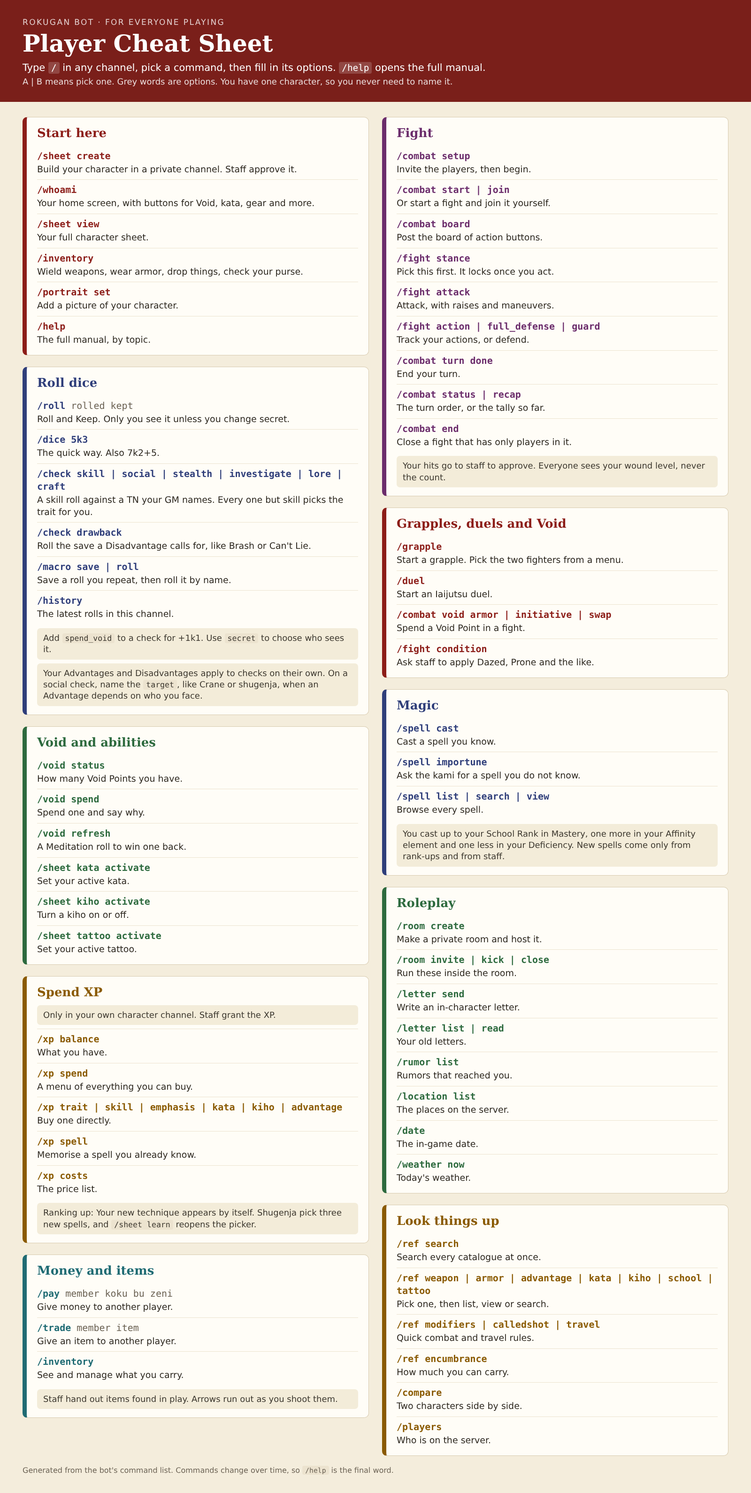
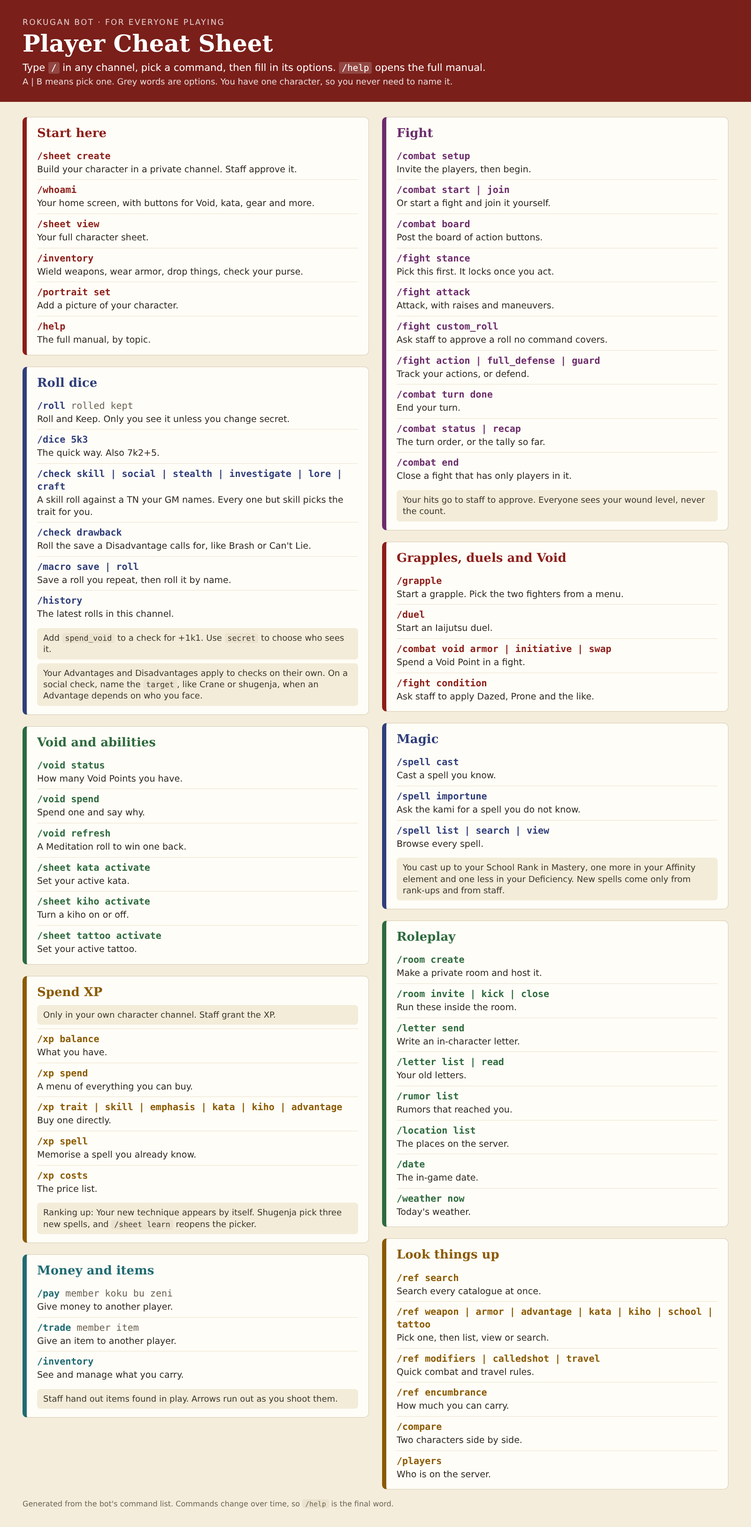
Add /fight custom_roll: a DM-approved roll for abilities no command covers
A player asks for XkY with an optional bonus, TN, emphasis and unskilled flag and
a reason. A card goes to the damage or approval channel; a DM can approve and roll,
edit the dice and roll, or deny. The result is posted in the room the request came
from and logged. It does not use an action or change wounds. The card survives
restarts.

Claude-Session: https://claude.ai/code/session_01KS9eZFiisvRgjoufBXVsmu

diff --git a/discord_bot/cheatsheets/player.html b/discord_bot/cheatsheets/player.html
@@ -33,7 +33,7 @@ footer { padding:0 48px 30px; color:var(--muted); font-size:16px; }
 <header><div class="kicker">Rokugan Bot · For everyone playing</div>
 <h1>Player Cheat Sheet</h1>
 <p>Type <code>/</code> in any channel, pick a command, then fill in its options. <code>/help</code> opens the full manual.</p><p class="legend">A | B means pick one. Grey words are options. You have one character, so you never need to name it.</p></header>
-<main><section class="card" style="--accent:#8c1d18"><h2>Start here</h2><div class="row"><div class="cmd">/sheet create</div><div class="desc">Build your character in a private channel. Staff approve it.</div></div><div class="row"><div class="cmd">/whoami</div><div class="desc">Your home screen, with buttons for Void, kata, gear and more.</div></div><div class="row"><div class="cmd">/sheet view</div><div class="desc">Your full character sheet.</div></div><div class="row"><div class="cmd">/inventory</div><div class="desc">Wield weapons, wear armor, drop things, check your purse.</div></div><div class="row"><div class="cmd">/portrait set</div><div class="desc">Add a picture of your character.</div></div><div class="row"><div class="cmd">/help</div><div class="desc">The full manual, by topic.</div></div></section><section class="card" style="--accent:#2f3e7a"><h2>Roll dice</h2><div class="row"><div class="cmd">/roll <span class="opt">rolled kept</span></div><div class="desc">Roll and Keep. Only you see it unless you change secret.</div></div><div class="row"><div class="cmd">/dice 5k3</div><div class="desc">The quick way. Also 7k2+5.</div></div><div class="row"><div class="cmd">/check skill | social | stealth | investigate | lore | craft</div><div class="desc">A skill roll against a TN your GM names. Every one but skill picks the trait for you.</div></div><div class="row"><div class="cmd">/check drawback</div><div class="desc">Roll the save a Disadvantage calls for, like Brash or Can&#x27;t Lie.</div></div><div class="row"><div class="cmd">/macro save | roll</div><div class="desc">Save a roll you repeat, then roll it by name.</div></div><div class="row"><div class="cmd">/history</div><div class="desc">The latest rolls in this channel.</div></div><div class="note">Add <code>spend_void</code> to a check for +1k1. Use <code>secret</code> to choose who sees it.</div><div class="note">Your Advantages and Disadvantages apply to checks on their own. On a social check, name the <code>target</code>, like Crane or shugenja, when an Advantage depends on who you face.</div></section><section class="card" style="--accent:#2d6a3e"><h2>Void and abilities</h2><div class="row"><div class="cmd">/void status</div><div class="desc">How many Void Points you have.</div></div><div class="row"><div class="cmd">/void spend</div><div class="desc">Spend one and say why.</div></div><div class="row"><div class="cmd">/void refresh</div><div class="desc">A Meditation roll to win one back.</div></div><div class="row"><div class="cmd">/sheet kata activate</div><div class="desc">Set your active kata.</div></div><div class="row"><div class="cmd">/sheet kiho activate</div><div class="desc">Turn a kiho on or off.</div></div><div class="row"><div class="cmd">/sheet tattoo activate</div><div class="desc">Set your active tattoo.</div></div></section><section class="card" style="--accent:#8a5a00"><h2>Spend XP</h2><div class="note">Only in your own character channel. Staff grant the XP.</div><div class="row"><div class="cmd">/xp balance</div><div class="desc">What you have.</div></div><div class="row"><div class="cmd">/xp spend</div><div class="desc">A menu of everything you can buy.</div></div><div class="row"><div class="cmd">/xp trait | skill | emphasis | kata | kiho | advantage</div><div class="desc">Buy one directly.</div></div><div class="row"><div class="cmd">/xp spell</div><div class="desc">Memorise a spell you already know.</div></div><div class="row"><div class="cmd">/xp costs</div><div class="desc">The price list.</div></div><div class="note">Ranking up: Your new technique appears by itself. Shugenja pick three new spells, and <code>/sheet learn</code> reopens the picker.</div></section><section class="card" style="--accent:#1f6b73"><h2>Money and items</h2><div class="row"><div class="cmd">/pay <span class="opt">member koku bu zeni</span></div><div class="desc">Give money to another player.</div></div><div class="row"><div class="cmd">/trade <span class="opt">member item</span></div><div class="desc">Give an item to another player.</div></div><div class="row"><div class="cmd">/inventory</div><div class="desc">See and manage what you carry.</div></div><div class="note">Staff hand out items found in play. Arrows run out as you shoot them.</div></section><section class="card" style="--accent:#6b2c6b"><h2>Fight</h2><div class="row"><div class="cmd">/combat setup</div><div class="desc">Invite the players, then begin.</div></div><div class="row"><div class="cmd">/combat start | join</div><div class="desc">Or start a fight and join it yourself.</div></div><div class="row"><div class="cmd">/combat board</div><div class="desc">Post the board of action buttons.</div></div><div class="row"><div class="cmd">/fight stance</div><div class="desc">Pick this first. It locks once you act.</div></div><div class="row"><div class="cmd">/fight attack</div><div class="desc">Attack, with raises and maneuvers.</div></div><div class="row"><div class="cmd">/fight action | full_defense | guard</div><div class="desc">Track your actions, or defend.</div></div><div class="row"><div class="cmd">/combat turn done</div><div class="desc">End your turn.</div></div><div class="row"><div class="cmd">/combat status | recap</div><div class="desc">The turn order, or the tally so far.</div></div><div class="row"><div class="cmd">/combat end</div><div class="desc">Close a fight that has only players in it.</div></div><div class="note">Your hits go to staff to approve. Everyone sees your wound level, never the count.</div></section><section class="card" style="--accent:#8c1d18"><h2>Grapples, duels and Void</h2><div class="row"><div class="cmd">/grapple</div><div class="desc">Start a grapple. Pick the two fighters from a menu.</div></div><div class="row"><div class="cmd">/duel</div><div class="desc">Start an Iaijutsu duel.</div></div><div class="row"><div class="cmd">/combat void armor | initiative | swap</div><div class="desc">Spend a Void Point in a fight.</div></div><div class="row"><div class="cmd">/fight condition</div><div class="desc">Ask staff to apply Dazed, Prone and the like.</div></div></section><section class="card" style="--accent:#2f3e7a"><h2>Magic</h2><div class="row"><div class="cmd">/spell cast</div><div class="desc">Cast a spell you know.</div></div><div class="row"><div class="cmd">/spell importune</div><div class="desc">Ask the kami for a spell you do not know.</div></div><div class="row"><div class="cmd">/spell list | search | view</div><div class="desc">Browse every spell.</div></div><div class="note">You cast up to your School Rank in Mastery, one more in your Affinity element and one less in your Deficiency. New spells come only from rank-ups and from staff.</div></section><section class="card" style="--accent:#2d6a3e"><h2>Roleplay</h2><div class="row"><div class="cmd">/room create</div><div class="desc">Make a private room and host it.</div></div><div class="row"><div class="cmd">/room invite | kick | close</div><div class="desc">Run these inside the room.</div></div><div class="row"><div class="cmd">/letter send</div><div class="desc">Write an in-character letter.</div></div><div class="row"><div class="cmd">/letter list | read</div><div class="desc">Your old letters.</div></div><div class="row"><div class="cmd">/rumor list</div><div class="desc">Rumors that reached you.</div></div><div class="row"><div class="cmd">/location list</div><div class="desc">The places on the server.</div></div><div class="row"><div class="cmd">/date</div><div class="desc">The in-game date.</div></div><div class="row"><div class="cmd">/weather now</div><div class="desc">Today&#x27;s weather.</div></div></section><section class="card" style="--accent:#8a5a00"><h2>Look things up</h2><div class="row"><div class="cmd">/ref search</div><div class="desc">Search every catalogue at once.</div></div><div class="row"><div class="cmd">/ref weapon | armor | advantage | kata | kiho | school | tattoo</div><div class="desc">Pick one, then list, view or search.</div></div><div class="row"><div class="cmd">/ref modifiers | calledshot | travel</div><div class="desc">Quick combat and travel rules.</div></div><div class="row"><div class="cmd">/ref encumbrance</div><div class="desc">How much you can carry.</div></div><div class="row"><div class="cmd">/compare</div><div class="desc">Two characters side by side.</div></div><div class="row"><div class="cmd">/players</div><div class="desc">Who is on the server.</div></div></section></main>
+<main><section class="card" style="--accent:#8c1d18"><h2>Start here</h2><div class="row"><div class="cmd">/sheet create</div><div class="desc">Build your character in a private channel. Staff approve it.</div></div><div class="row"><div class="cmd">/whoami</div><div class="desc">Your home screen, with buttons for Void, kata, gear and more.</div></div><div class="row"><div class="cmd">/sheet view</div><div class="desc">Your full character sheet.</div></div><div class="row"><div class="cmd">/inventory</div><div class="desc">Wield weapons, wear armor, drop things, check your purse.</div></div><div class="row"><div class="cmd">/portrait set</div><div class="desc">Add a picture of your character.</div></div><div class="row"><div class="cmd">/help</div><div class="desc">The full manual, by topic.</div></div></section><section class="card" style="--accent:#2f3e7a"><h2>Roll dice</h2><div class="row"><div class="cmd">/roll <span class="opt">rolled kept</span></div><div class="desc">Roll and Keep. Only you see it unless you change secret.</div></div><div class="row"><div class="cmd">/dice 5k3</div><div class="desc">The quick way. Also 7k2+5.</div></div><div class="row"><div class="cmd">/check skill | social | stealth | investigate | lore | craft</div><div class="desc">A skill roll against a TN your GM names. Every one but skill picks the trait for you.</div></div><div class="row"><div class="cmd">/check drawback</div><div class="desc">Roll the save a Disadvantage calls for, like Brash or Can&#x27;t Lie.</div></div><div class="row"><div class="cmd">/macro save | roll</div><div class="desc">Save a roll you repeat, then roll it by name.</div></div><div class="row"><div class="cmd">/history</div><div class="desc">The latest rolls in this channel.</div></div><div class="note">Add <code>spend_void</code> to a check for +1k1. Use <code>secret</code> to choose who sees it.</div><div class="note">Your Advantages and Disadvantages apply to checks on their own. On a social check, name the <code>target</code>, like Crane or shugenja, when an Advantage depends on who you face.</div></section><section class="card" style="--accent:#2d6a3e"><h2>Void and abilities</h2><div class="row"><div class="cmd">/void status</div><div class="desc">How many Void Points you have.</div></div><div class="row"><div class="cmd">/void spend</div><div class="desc">Spend one and say why.</div></div><div class="row"><div class="cmd">/void refresh</div><div class="desc">A Meditation roll to win one back.</div></div><div class="row"><div class="cmd">/sheet kata activate</div><div class="desc">Set your active kata.</div></div><div class="row"><div class="cmd">/sheet kiho activate</div><div class="desc">Turn a kiho on or off.</div></div><div class="row"><div class="cmd">/sheet tattoo activate</div><div class="desc">Set your active tattoo.</div></div></section><section class="card" style="--accent:#8a5a00"><h2>Spend XP</h2><div class="note">Only in your own character channel. Staff grant the XP.</div><div class="row"><div class="cmd">/xp balance</div><div class="desc">What you have.</div></div><div class="row"><div class="cmd">/xp spend</div><div class="desc">A menu of everything you can buy.</div></div><div class="row"><div class="cmd">/xp trait | skill | emphasis | kata | kiho | advantage</div><div class="desc">Buy one directly.</div></div><div class="row"><div class="cmd">/xp spell</div><div class="desc">Memorise a spell you already know.</div></div><div class="row"><div class="cmd">/xp costs</div><div class="desc">The price list.</div></div><div class="note">Ranking up: Your new technique appears by itself. Shugenja pick three new spells, and <code>/sheet learn</code> reopens the picker.</div></section><section class="card" style="--accent:#1f6b73"><h2>Money and items</h2><div class="row"><div class="cmd">/pay <span class="opt">member koku bu zeni</span></div><div class="desc">Give money to another player.</div></div><div class="row"><div class="cmd">/trade <span class="opt">member item</span></div><div class="desc">Give an item to another player.</div></div><div class="row"><div class="cmd">/inventory</div><div class="desc">See and manage what you carry.</div></div><div class="note">Staff hand out items found in play. Arrows run out as you shoot them.</div></section><section class="card" style="--accent:#6b2c6b"><h2>Fight</h2><div class="row"><div class="cmd">/combat setup</div><div class="desc">Invite the players, then begin.</div></div><div class="row"><div class="cmd">/combat start | join</div><div class="desc">Or start a fight and join it yourself.</div></div><div class="row"><div class="cmd">/combat board</div><div class="desc">Post the board of action buttons.</div></div><div class="row"><div class="cmd">/fight stance</div><div class="desc">Pick this first. It locks once you act.</div></div><div class="row"><div class="cmd">/fight attack</div><div class="desc">Attack, with raises and maneuvers.</div></div><div class="row"><div class="cmd">/fight custom_roll</div><div class="desc">Ask staff to approve a roll no command covers.</div></div><div class="row"><div class="cmd">/fight action | full_defense | guard</div><div class="desc">Track your actions, or defend.</div></div><div class="row"><div class="cmd">/combat turn done</div><div class="desc">End your turn.</div></div><div class="row"><div class="cmd">/combat status | recap</div><div class="desc">The turn order, or the tally so far.</div></div><div class="row"><div class="cmd">/combat end</div><div class="desc">Close a fight that has only players in it.</div></div><div class="note">Your hits go to staff to approve. Everyone sees your wound level, never the count.</div></section><section class="card" style="--accent:#8c1d18"><h2>Grapples, duels and Void</h2><div class="row"><div class="cmd">/grapple</div><div class="desc">Start a grapple. Pick the two fighters from a menu.</div></div><div class="row"><div class="cmd">/duel</div><div class="desc">Start an Iaijutsu duel.</div></div><div class="row"><div class="cmd">/combat void armor | initiative | swap</div><div class="desc">Spend a Void Point in a fight.</div></div><div class="row"><div class="cmd">/fight condition</div><div class="desc">Ask staff to apply Dazed, Prone and the like.</div></div></section><section class="card" style="--accent:#2f3e7a"><h2>Magic</h2><div class="row"><div class="cmd">/spell cast</div><div class="desc">Cast a spell you know.</div></div><div class="row"><div class="cmd">/spell importune</div><div class="desc">Ask the kami for a spell you do not know.</div></div><div class="row"><div class="cmd">/spell list | search | view</div><div class="desc">Browse every spell.</div></div><div class="note">You cast up to your School Rank in Mastery, one more in your Affinity element and one less in your Deficiency. New spells come only from rank-ups and from staff.</div></section><section class="card" style="--accent:#2d6a3e"><h2>Roleplay</h2><div class="row"><div class="cmd">/room create</div><div class="desc">Make a private room and host it.</div></div><div class="row"><div class="cmd">/room invite | kick | close</div><div class="desc">Run these inside the room.</div></div><div class="row"><div class="cmd">/letter send</div><div class="desc">Write an in-character letter.</div></div><div class="row"><div class="cmd">/letter list | read</div><div class="desc">Your old letters.</div></div><div class="row"><div class="cmd">/rumor list</div><div class="desc">Rumors that reached you.</div></div><div class="row"><div class="cmd">/location list</div><div class="desc">The places on the server.</div></div><div class="row"><div class="cmd">/date</div><div class="desc">The in-game date.</div></div><div class="row"><div class="cmd">/weather now</div><div class="desc">Today&#x27;s weather.</div></div></section><section class="card" style="--accent:#8a5a00"><h2>Look things up</h2><div class="row"><div class="cmd">/ref search</div><div class="desc">Search every catalogue at once.</div></div><div class="row"><div class="cmd">/ref weapon | armor | advantage | kata | kiho | school | tattoo</div><div class="desc">Pick one, then list, view or search.</div></div><div class="row"><div class="cmd">/ref modifiers | calledshot | travel</div><div class="desc">Quick combat and travel rules.</div></div><div class="row"><div class="cmd">/ref encumbrance</div><div class="desc">How much you can carry.</div></div><div class="row"><div class="cmd">/compare</div><div class="desc">Two characters side by side.</div></div><div class="row"><div class="cmd">/players</div><div class="desc">Who is on the server.</div></div></section></main>
 <footer>Generated from the bot's command list. Commands change over time, so <code>/help</code> is the final word.</footer>
 <script>document.body.dataset.h = document.documentElement.scrollHeight;</script>
 </body></html>

diff --git a/discord_bot/cog_combat.py b/discord_bot/cog_combat.py
@@ -3241,6 +3241,221 @@ combat_duel = app_commands.Group(name="duel", description="Iaijutsu dueling.", p
 combat_battle = app_commands.Group(name="battle", description="Mass Battle system.", parent=engage_group)
 
 
+# ---------------------------------------------------------------------------
+# /fight custom_roll: a roll nobody else has a command for, approved by a DM
+# ---------------------------------------------------------------------------
+
+_CUSTOM_ROLL_LIMIT = 30
+
+
+def _dice_label(rolled: int, kept: int, bonus: int) -> str:
+    return f"{rolled}k{kept}" + (f"{bonus:+d}" if bonus else "")
+
+
+class _CustomRollEditModal(discord.ui.Modal):
+    """The DM changes the dice before they are rolled."""
+
+    def __init__(self, view: "CustomRollView") -> None:
+        super().__init__(title="Edit the roll, then roll it")
+        self.parent_view = view
+        self.rolled = discord.ui.TextInput(label="Dice rolled", default=str(view.rolled), max_length=2)
+        self.kept = discord.ui.TextInput(label="Dice kept", default=str(view.kept), max_length=2)
+        self.bonus = discord.ui.TextInput(label="Flat bonus", default=str(view.bonus), max_length=4)
+        self.tn = discord.ui.TextInput(label="Target Number (empty for none)",
+                                       default="" if view.tn is None else str(view.tn),
+                                       required=False, max_length=3)
+        for item in (self.rolled, self.kept, self.bonus, self.tn):
+            self.add_item(item)
+
+    async def on_submit(self, interaction: discord.Interaction) -> None:
+        try:
+            rolled, kept = int(self.rolled.value), int(self.kept.value)
+            bonus = int(self.bonus.value.replace(" ", "") or "0")
+            tn = int(self.tn.value) if self.tn.value.strip() else None
+        except ValueError:
+            await interaction.response.send_message("Use whole numbers only.", ephemeral=True)
+            return
+        if not (1 <= rolled <= _CUSTOM_ROLL_LIMIT and 1 <= kept <= _CUSTOM_ROLL_LIMIT):
+            await interaction.response.send_message(
+                f"Rolled and kept must be 1 to {_CUSTOM_ROLL_LIMIT}.", ephemeral=True)
+            return
+        if not -50 <= bonus <= 50 or (tn is not None and not 1 <= tn <= 200):
+            await interaction.response.send_message("Bonus must be -50 to 50 and the TN 1 to 200.", ephemeral=True)
+            return
+        v = self.parent_view
+        if not v.claim():
+            await interaction.response.send_message("Already handled by an earlier click.", ephemeral=True)
+            return
+        await v.resolve(interaction, rolled, kept, bonus, tn)
+
+
+class CustomRollView(views_base.PersistentView):
+    """A DM-only card for a roll a player asked for with /fight custom_roll."""
+
+    KIND = "custom_roll"
+
+    def __init__(
+        self,
+        requester_id: int,
+        character_name: str,
+        rolled: int,
+        kept: int,
+        bonus: int,
+        tn: int | None,
+        emphasis: bool,
+        unskilled: bool,
+        reason: str,
+        source_channel_id: int,
+    ) -> None:
+        super().__init__()
+        self.requester_id = requester_id
+        self.character_name = character_name
+        self.rolled = rolled
+        self.kept = kept
+        self.bonus = bonus
+        self.tn = tn
+        self.emphasis = emphasis
+        self.unskilled = unskilled
+        self.reason = reason
+        self.source_channel_id = source_channel_id
+
+    async def _post(self, interaction: discord.Interaction, content: str | None, embed: discord.Embed | None = None) -> None:
+        src = _d.bot_client.get_channel(self.source_channel_id) if self.source_channel_id else None
+        if src is not None:
+            await src.send(content=content, embed=embed, allowed_mentions=_PING_MENTIONS)
+            await interaction.followup.send(f"Posted in <#{self.source_channel_id}>.", ephemeral=True)
+        else:
+            await interaction.followup.send(content=content, embed=embed)
+
+    async def resolve(self, interaction: discord.Interaction, rolled: int, kept: int, bonus: int, tn: int | None) -> None:
+        explodes = not self.unskilled
+        if tn is not None:
+            out = _d.engine.roll_check(rolled, kept, tn, 0, bonus, explodes, self.emphasis)
+            result, total, success = out["dice"], out["total"], out["success"]
+            colour = discord.Color.green() if success else discord.Color.red()
+        else:
+            result = _d.engine.roll_and_keep(rolled, kept, explodes, self.emphasis)
+            total, success = result.total + bonus, None
+            colour = discord.Color.blurple()
+        embed = discord.Embed(title=f"{self.character_name}: custom roll", description=self.reason[:300], color=colour)
+        asked = _dice_label(self.rolled, self.kept, self.bonus)
+        done = _dice_label(rolled, kept, bonus)
+        embed.add_field(name="Roll", value=f"`{done}`" + (f" *(asked for `{asked}`)*" if done != asked else ""), inline=True)
+        if tn is not None:
+            embed.add_field(name="Target", value=f"TN {tn}", inline=True)
+        embed.add_field(name="Result", value=_d.format_dice(result)[:1024], inline=False)
+        total_str = f"**{total}**" + (f"  (dice {result.total} {'+' if bonus >= 0 else '−'} {abs(bonus)})" if bonus else "")
+        if success is not None:
+            total_str += f" vs TN {tn}: " + ("**Success**" if success else "**Failure**") + f" (margin {total - tn:+d})"
+        embed.add_field(name="Total", value=total_str, inline=False)
+        flags = [f for f, on in (("Emphasis", self.emphasis), ("Unskilled (no explode)", self.unskilled)) if on]
+        embed.set_footer(text=f"Approved by {interaction.user.display_name}" + ("".join(" · " + f for f in flags)))
+        self._disable()
+        if interaction.response.is_done():
+            await interaction.followup.send("Rolled.", ephemeral=True)
+        else:
+            await interaction.response.edit_message(view=self)
+        await self._post(interaction, f"<@{self.requester_id}>", embed)
+        guild_id = str(interaction.guild_id)
+        await _d.combat_log(guild_id, f"Custom roll: {self.character_name} {done} = {total}"
+                            + ("" if success is None else (" (success)" if success else " (failure)"))
+                            + f" · {self.reason[:100]} · approved by {interaction.user.display_name}")
+
+    @discord.ui.button(label="Approve & Roll", style=discord.ButtonStyle.success)
+    async def approve(self, interaction: discord.Interaction, button: discord.ui.Button) -> None:
+        if not await _d.require_dm_role(interaction):
+            return
+        if not self.claim():
+            await interaction.response.send_message("Already handled by an earlier click.", ephemeral=True)
+            return
+        await self.resolve(interaction, self.rolled, self.kept, self.bonus, self.tn)
+
+    @discord.ui.button(label="Edit & Roll", style=discord.ButtonStyle.primary)
+    async def edit(self, interaction: discord.Interaction, button: discord.ui.Button) -> None:
+        if not await _d.require_dm_role(interaction):
+            return
+        if self._claimed:
+            await interaction.response.send_message("Already handled by an earlier click.", ephemeral=True)
+            return
+        await interaction.response.send_modal(_CustomRollEditModal(self))
+
+    @discord.ui.button(label="Deny", style=discord.ButtonStyle.secondary)
+    async def deny(self, interaction: discord.Interaction, button: discord.ui.Button) -> None:
+        if not await _d.require_dm_role(interaction):
+            return
+        if not self.claim():
+            await interaction.response.send_message("Already handled by an earlier click.", ephemeral=True)
+            return
+        self._disable()
+        await interaction.response.edit_message(view=self)
+        await self._post(
+            interaction,
+            f"<@{self.requester_id}> {interaction.user.display_name} did not approve the custom roll "
+            f"`{_dice_label(self.rolled, self.kept, self.bonus)}` for **{self.character_name}**: {self.reason[:200]}",
+        )
+
+
+@fight_group.command(
+    name="custom_roll",
+    description="Ask a DM to approve a roll for an Advantage or ability that no other command covers.",
+)
+@app_commands.describe(
+    rolled="Dice to roll (the X in XkY).",
+    kept="Dice to keep (the Y in XkY).",
+    reason="What the roll is for and which rule or Advantage allows it. The DM reads this.",
+    bonus="Flat modifier added to the total.",
+    tn="Target Number, if the roll has one. The DM can change it.",
+    emphasis="Reroll any initial 1 once.",
+    unskilled="Dice do not explode.",
+)
+@app_commands.checks.cooldown(1, 3.0)
+async def custom_roll(
+    interaction: discord.Interaction,
+    rolled: app_commands.Range[int, 1, _CUSTOM_ROLL_LIMIT],
+    kept: app_commands.Range[int, 1, _CUSTOM_ROLL_LIMIT],
+    reason: app_commands.Range[str, 3, 300],
+    bonus: app_commands.Range[int, -50, 50] = 0,
+    tn: app_commands.Range[int, 1, 200] | None = None,
+    emphasis: bool = False,
+    unskilled: bool = False,
+) -> None:
+    if not await _d.require_guild(interaction):
+        return
+    guild = str(interaction.guild_id)
+    rec = _d.store.get_active(guild, str(interaction.user.id))
+    if rec is None:
+        await interaction.response.send_message("You have no active character. Use `/sheet create` first.", ephemeral=True)
+        return
+    if await _d.refuse_if_cannot_act(interaction, rec.character):
+        return
+    approval_ch = await _require_approval_channel(interaction, guild)
+    if approval_ch is None:
+        return
+    view = CustomRollView(
+        interaction.user.id, rec.character.name, rolled, kept, bonus, tn, emphasis, unskilled,
+        reason.strip(), interaction.channel_id or 0,
+    )
+    embed = discord.Embed(
+        title=f"{rec.character.name}: custom roll request",
+        description=reason.strip(),
+        color=discord.Color.orange(),
+    )
+    embed.add_field(name="Roll", value=f"`{_dice_label(rolled, kept, bonus)}`", inline=True)
+    embed.add_field(name="Target", value=f"TN {tn}" if tn is not None else "None", inline=True)
+    flags = [f for f, on in (("Emphasis", emphasis), ("Unskilled", unskilled)) if on]
+    if flags:
+        embed.add_field(name="Options", value=", ".join(flags), inline=True)
+    enc = _d.encounters.get(interaction.channel_id)
+    if enc is not None and enc.started:
+        cur = enc.current()
+        embed.add_field(name="Combat", value=f"Round {enc.round}" + (f", {cur.name}'s turn" if cur else ""), inline=False)
+    await _post_damage_card(approval_ch, interaction.guild, interaction.user, interaction.channel_id or 0,
+                            f"{rec.character.name} asks for a custom roll.", embed, view)
+    await interaction.response.send_message(
+        f"Sent to the DMs: `{_dice_label(rolled, kept, bonus)}` for {reason.strip()[:200]}. "
+        "The result appears here once one approves it.", ephemeral=True)
+
+
 @fight_group.command(
     name="attack",
     description="Attack another character. Rolls to hit; on a hit a DM authorizes the outcome.",

diff --git a/discord_bot/help_pages.py b/discord_bot/help_pages.py
@@ -165,6 +165,10 @@ TOPICS: list[Topic] = [
             "`attacker_stance:` and `defender_stance:`, `spend_void:` for +1k1, `increased_damage:`, `off_hand:` "
             "to strike with the off-hand weapon, `point_blank:` for a ranged shot at someone within melee reach "
             "(−10), `weapon_material:` for jade, crystal or obsidian.\n"
+            "**A roll no command covers.** `/fight custom_roll rolled: kept: reason:` asks staff to approve a roll "
+            "for an Advantage or ability that applies only in the story or in a way the bot cannot compute. Add "
+            "`bonus:`, `tn:`, `emphasis:` or `unskilled:` if needed. Staff can approve it, change the dice and roll, or "
+            "deny it. The result appears in the channel. It does not use up your action or change anyone's wounds.\n"
             "**What everyone sees.** The channel gets weapon, stance, total vs TN and hit or miss. The full "
             "breakdown is yours alone. On a hit, a damage card goes to staff; when they apply it, the channel sees "
             "the damage and the new wound level, never the count.\n"

diff --git a/discord_bot/tools/build_cheatsheets.py b/discord_bot/tools/build_cheatsheets.py
@@ -117,6 +117,7 @@ PLAYER = Sheet(
             E("/combat board", "Post the board of action buttons."),
             E("/fight stance", "Pick this first. It locks once you act."),
             E("/fight attack", "Attack, with raises and maneuvers."),
+            E("/fight custom_roll", "Ask staff to approve a roll no command covers."),
             E("/fight action | full_defense | guard", "Track your actions, or defend."),
             E("/combat turn done", "End your turn."),
             E("/combat status | recap", "The turn order, or the tally so far."),

diff --git a/discord_bot/README.md b/discord_bot/README.md
@@ -96,6 +96,7 @@ Approve / Deny buttons that only a DM can click. This applies to:
 - **Attack damage** (`/fight attack` → DM clicks "Roll & Apply Damage" or "Deny")
 - **Spell damage** (`/spell damage` with `target:` → DM clicks "Apply Damage" or "Deny")
 - **Creature attacks** (`/creature attack` → DM clicks "Apply Creature Damage" or "No Damage")
+- **Custom rolls** (`/fight custom_roll` → DM clicks "Approve & Roll", "Edit & Roll" or "Deny")
 - **Arbitrary damage** (`/dm damage` → DM clicks "Apply Damage" or "Deny")
 - **Healing** (`/dm heal` → DM clicks "Apply Healing" or "Deny")
 - **Medicine treatment** (`/dm treat` → roll, then DM clicks "Apply Healing" or "Deny")

diff --git a/discord_bot/PLAYER_CHEATSHEET.md b/discord_bot/PLAYER_CHEATSHEET.md
@@ -64,6 +64,7 @@ Type `/` in any channel, pick a command, then fill in its options. `/help` opens
 - `/combat board`  Post the board of action buttons.
 - `/fight stance`  Pick this first. It locks once you act.
 - `/fight attack`  Attack, with raises and maneuvers.
+- `/fight custom_roll`  Ask staff to approve a roll no command covers.
 - `/fight action | full_defense | guard`  Track your actions, or defend.
 - `/combat turn done`  End your turn.
 - `/combat status | recap`  The turn order, or the tally so far.
